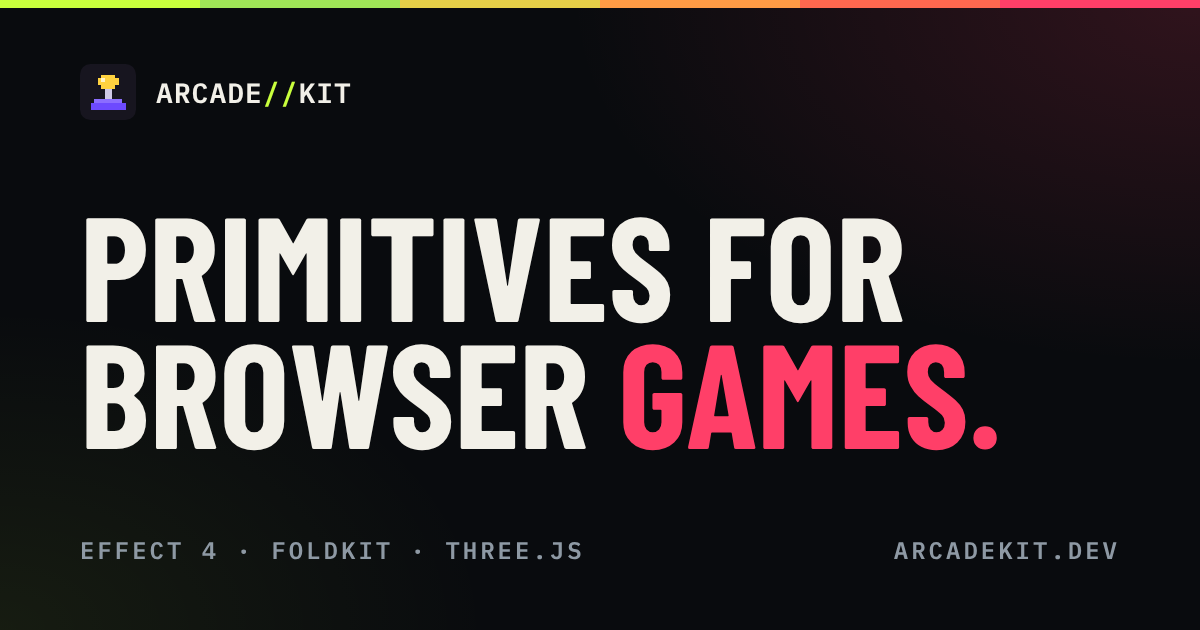
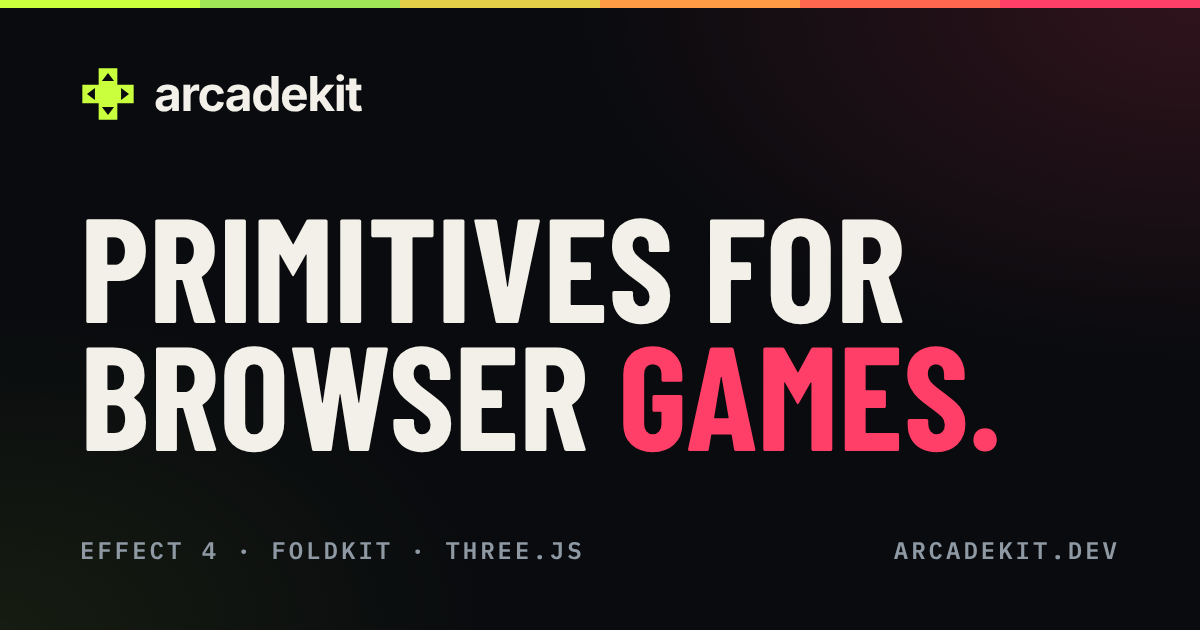
Make the site's mark a D-pad, beside its name in bold
The joystick and the ARCADE//KIT wordmark are gone. The mark is a D-pad,
an arrow cut in each arm, in one colour, as Foldkit's and Effect's are,
and the header sets it in lime beside "arcadekit" in the text face, bold.

- public/favicon.svg holds the mark's shape, the one text of it: as the
  favicon it is near-black in a light browser tab and lime in a dark
  one. The header (site-title.astro) and the image script read the
  shape from it.
- apple-touch-icon.png is the mark in lime on the page's near-black, and
  og.png has the mark and the name over the landing page's title.
- Starlight's `logo` option goes: the header is the site's own.
- The phone's "On this page" toggle is square, as the rest.

What breaks: nothing in the package.

Claude-Session: https://claude.ai/code/session_015KVar9W8moYwwABSyCDF3s

diff --git a/website/astro.config.ts b/website/astro.config.ts
@@ -78,7 +78,6 @@ export default defineConfig({
     starlight({
       title: "arcadekit",
       description: DESCRIPTION,
-      logo: { src: "./public/favicon.svg", alt: "" },
       favicon: "/favicon.svg",
       head: [
         {

diff --git a/website/src/styles/custom.css b/website/src/styles/custom.css
@@ -249,6 +249,10 @@ mobile-starlight-toc .toggle {
   color: var(--ak-text-muted);
 }
 
+mobile-starlight-toc .toggle {
+  border-radius: var(--ak-radius);
+}
+
 starlight-toc a {
   color: var(--ak-text-muted);
 }

diff --git a/website/README.md b/website/README.md
@@ -47,7 +47,7 @@ So a doc comment is written once, for an editor's hover and for the site, and it
 The site is styled after [polycombo.io](https://polycombo.io): one dark theme, square panels on hairlines, titles in [Barlow Condensed](https://fonts.google.com/specimen/Barlow+Condensed) and in capitals, labels in [IBM Plex Mono](https://fonts.google.com/specimen/IBM+Plex+Mono), text in [Inter](https://rsms.me/inter/), and an acid lime accent, with a ramp from lime to pink for what is numbered. The faces are self-hosted from their `@fontsource` packages.
 
 - [`src/styles/custom.css`](src/styles/custom.css) holds the palette, as `--ak-*` variables that Starlight's own (`--sl-*`) are made from, and every rule over Starlight's. Starlight's styles are in CSS layers, so these, in none, win over them.
-- [`src/components/`](src/components) replaces five of Starlight's components: the header's wordmark (`site-title.astro`), the landing page's hero (`hero.astro`, with the line over its title from the page's `eyebrow`), a page's title (`page-title.astro`: a reference page's keeps its case), and the theme's two (`theme-provider.astro`, `theme-select.astro`: one theme, so no picker). The landing page's numbers are `kit-stats.astro`, counted from the reference's pages.
+- [`src/components/`](src/components) replaces five of Starlight's components: the header's mark and name (`site-title.astro`: the D-pad in lime, then "arcadekit" in the text face, as Foldkit and Effect set theirs), the landing page's hero (`hero.astro`, with the line over its title from the page's `eyebrow`), a page's title (`page-title.astro`: a reference page's keeps its case), and the theme's two (`theme-provider.astro`, `theme-select.astro`: one theme, so no picker). The landing page's numbers are `kit-stats.astro`, counted from the reference's pages.
 - Code is drawn with the `vesper` theme on the page's panels (`expressiveCode` in [`astro.config.ts`](astro.config.ts)).
 
 ## How it reads the repository
@@ -96,7 +96,7 @@ The other choice is a site that describes only what is released: deploy it when 
 
 ## Images
 
-`public/favicon.svg` is the site's mark, and its logo. `pnpm --filter @arcadekit/website images` draws `apple-touch-icon.png` and `og.png` (the card a shared link shows, in the site's look and faces) from it, in Playwright's Chromium. Both are committed: run it again after changing the mark or the look.
+The site's mark is a D-pad, an arrow cut in each arm, and `public/favicon.svg` is the one file that holds its shape. As the favicon it is near-black in a light browser tab and lime in a dark one. The header draws the same shape inline, in lime (`src/components/site-title.astro`), and `pnpm --filter @arcadekit/website images` draws `apple-touch-icon.png` (the mark in lime on the page's near-black) and `og.png` (the card a shared link shows, in the site's look and faces) from it, in Playwright's Chromium. Both PNGs are committed: run it again after changing the mark or the look.
 
 ## Deploying
 
